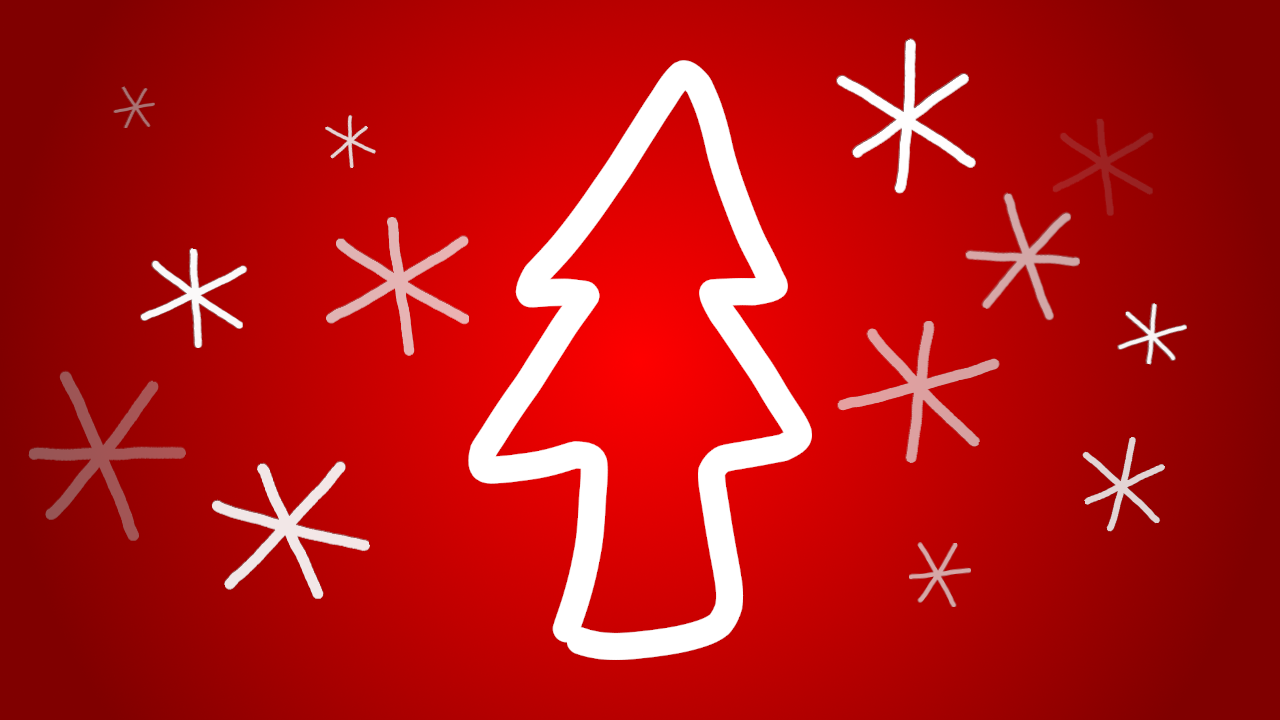
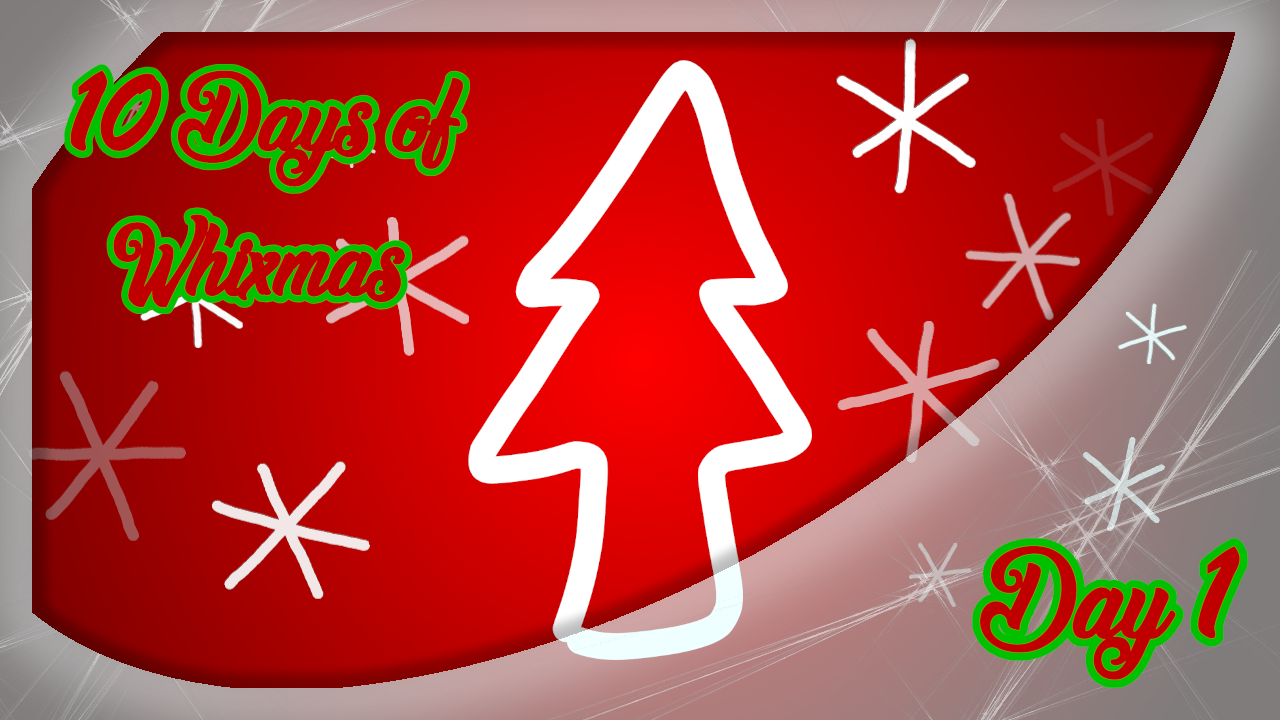
Updated Day 1
Updated the thumbnail and url for Day 1 of Whixmas

diff --git a/Assets/Scripts/whixmas.js b/Assets/Scripts/whixmas.js
@@ -64,7 +64,7 @@ const event_descriptions = [
 
 const event_links = [
     "",
-    "https://youtube.com/watch?v=",
+    "https://www.youtube.com/watch?v=OrCFt02Iiqc&list=PLJ_qMeabVsYjcpfC7atXx-duuLGSMhCNo&index=1",
     "https://youtube.com/watch?v=",
     "https://youtube.com/watch?v=",
     "https://youtube.com/watch?v=",
@@ -79,7 +79,7 @@ const event_links = [
 function startEvent(id, str) {
     var id_number = id.match(/\d+/);
     
-    document.getElementById("d" + id_number + "-banner").style.backgroundImage = "url('./Assets/Pictures/Whixmas/Day" + id_number + "Thumbnail.png')";
+    document.getElementById("d" + id_number + "-banner").style.backgroundImage = "url('/Assets/Pictures/Whixmas/Day" + id_number + "Thumbnail.png')";
     document.getElementById("d" + id_number + "-event-label").textContent = event_names[parseInt(id_number)];
     document.getElementById("d" + id_number + "-timer").style.display = "None";
     document.getElementById("d" + id_number + "-description").textContent = event_descriptions[parseInt(id_number)];
